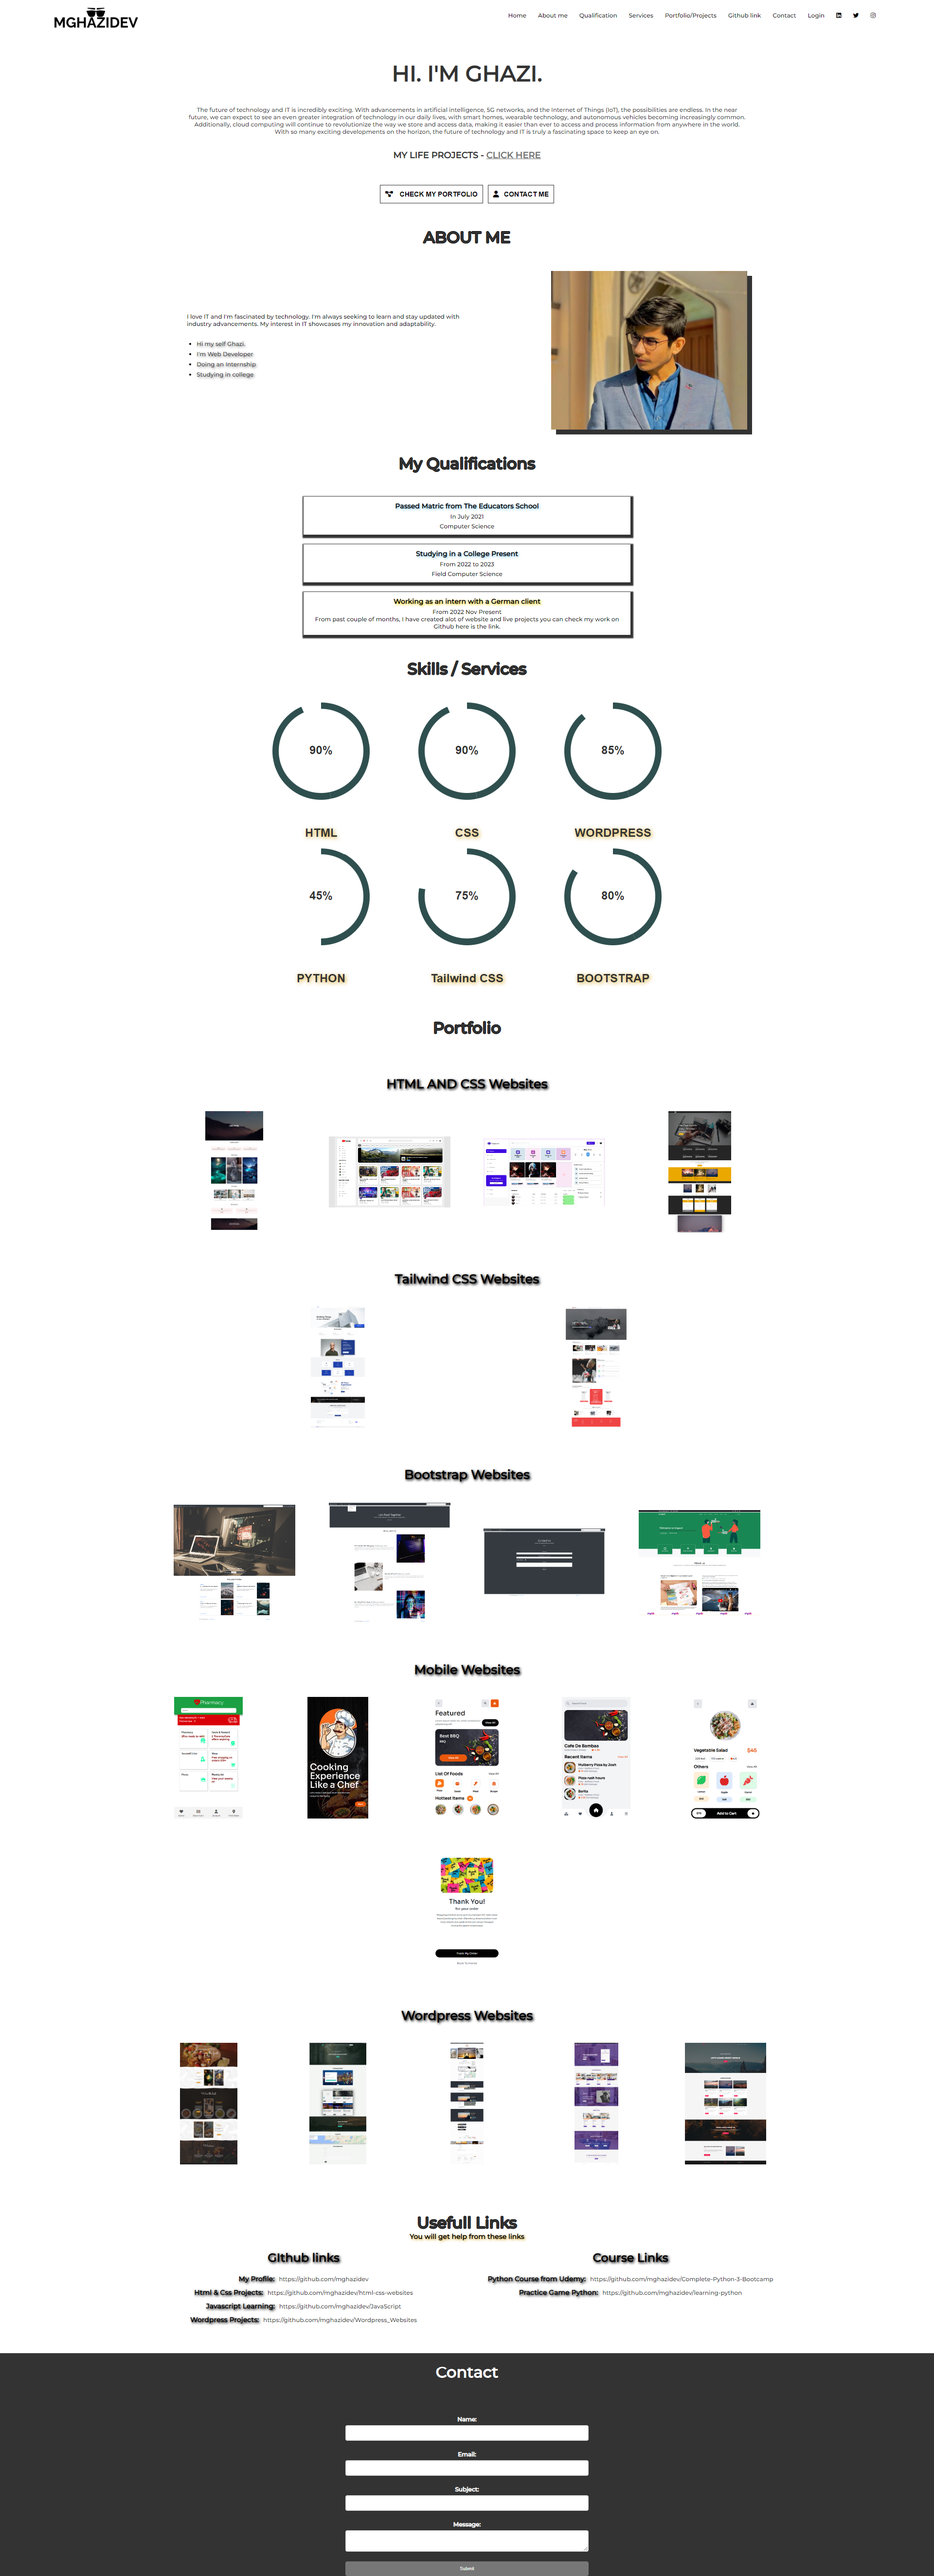
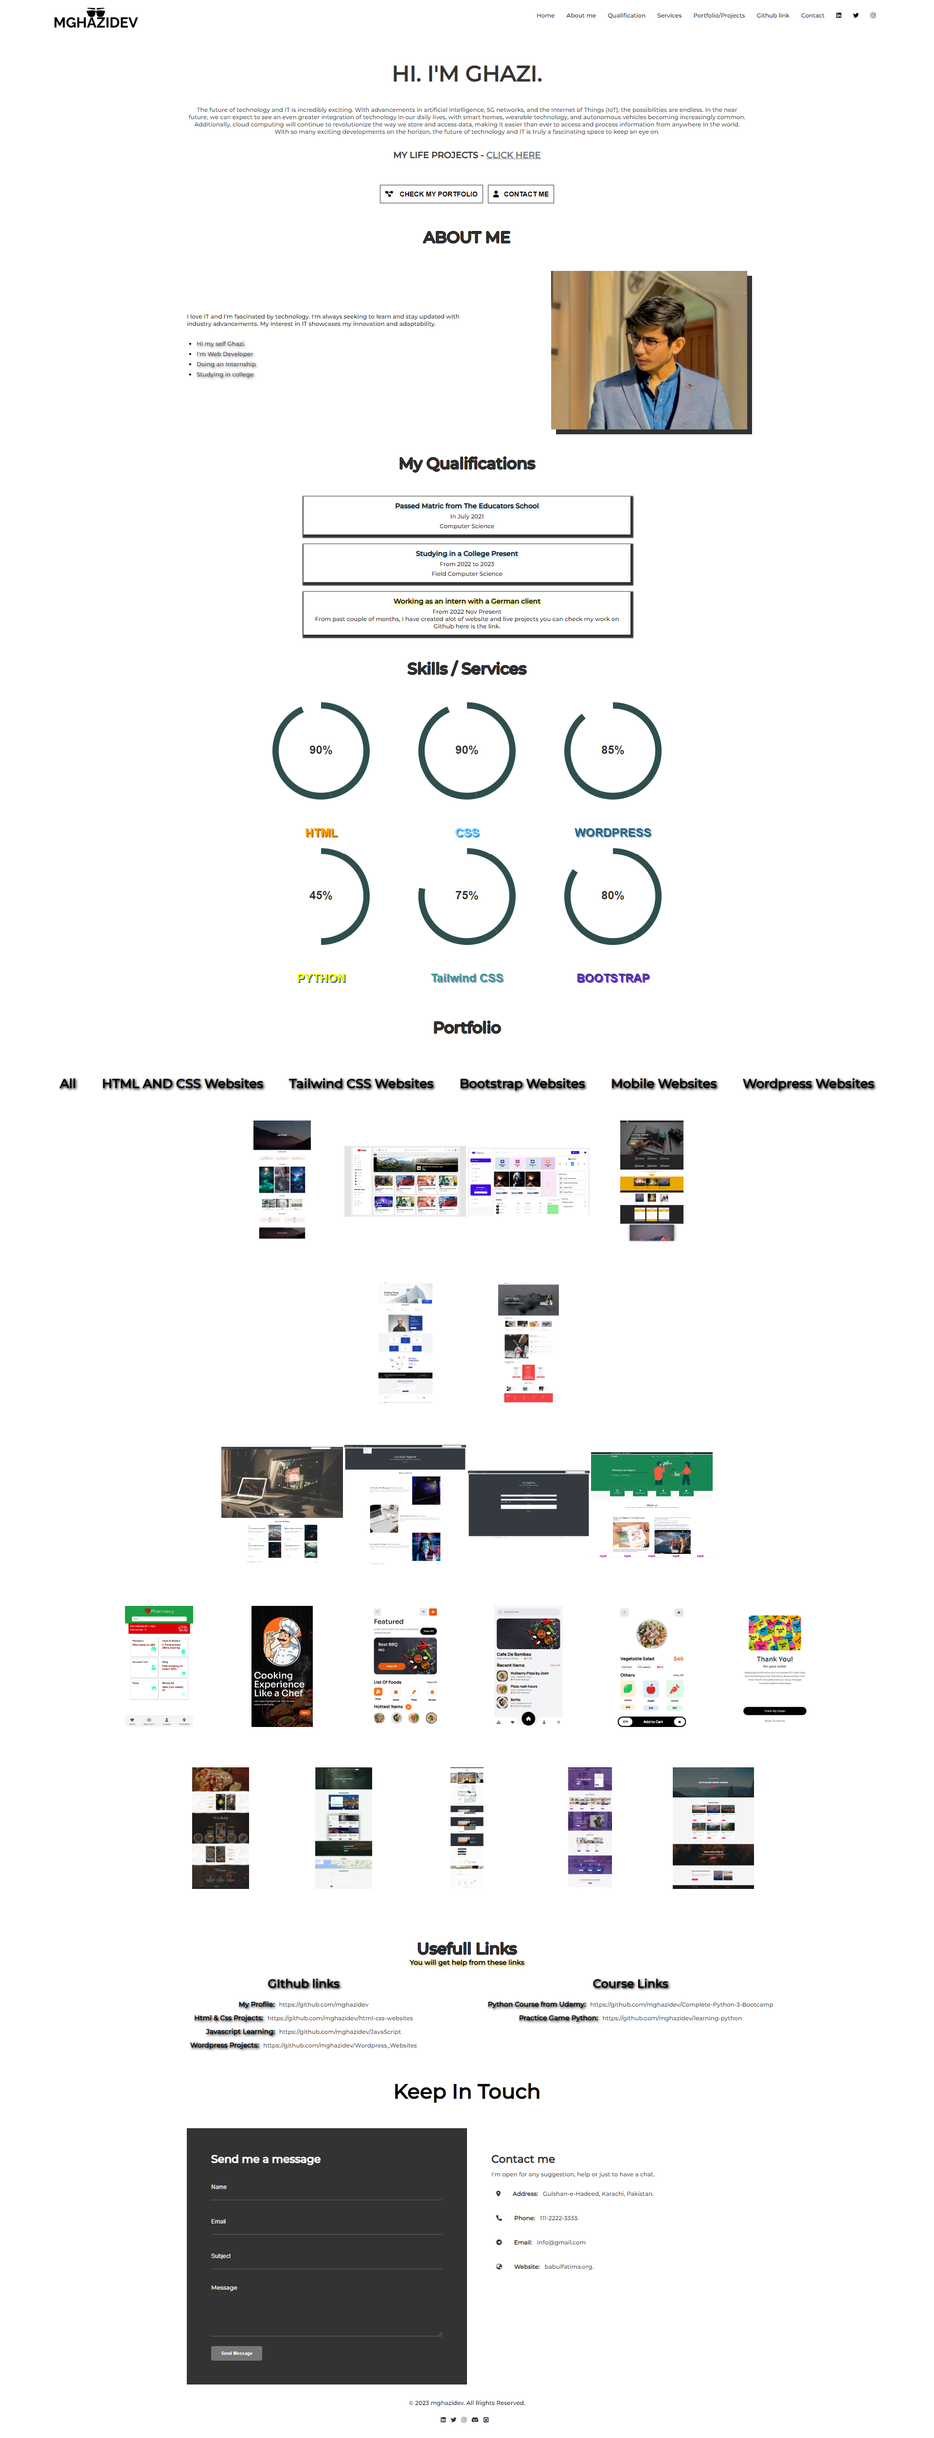
personal-website

diff --git a/personal-website/index.html b/personal-website/index.html
@@ -418,8 +418,6 @@
         </div>
     </section>
 
-
-
     <script type="text/javascript">
         document.querySelectorAll('.web-1 img').forEach(image => {
             image.onclick = () => {

diff --git a/personal-website/README.md b/personal-website/README.md
@@ -1,0 +1,10 @@
+# Website using html and css grid and flexbox.
+
+## _About Website_
+- This wbsite has logo and 5 pages on header and main heading with text and buttons on left.
+- Different section using flex and grid.
+- Pricing plans section.
+- Different hover effectsand properties for designing.
+- Also have slideshow in footer.
+
+![N](/images/Welcome%20Ghazi%20(1).png)
